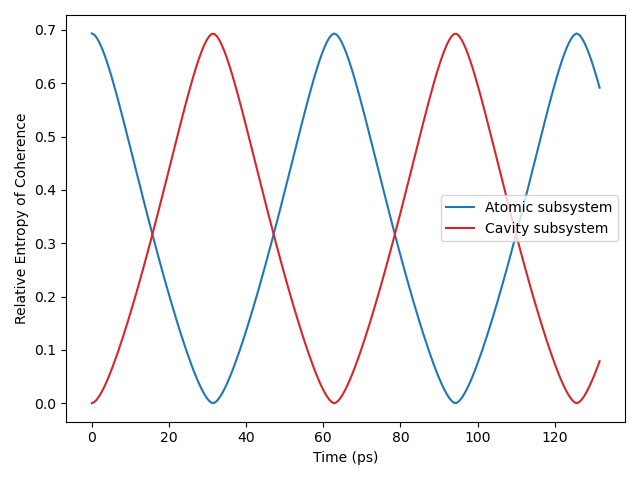
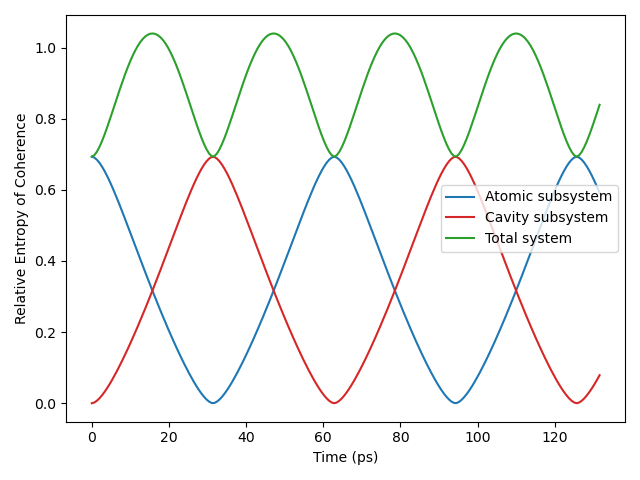
Adds total system coherence for closed simulations of the JCM.

diff --git a/Research Project/Code/JCM_Closed_eg.py b/Research Project/Code/JCM_Closed_eg.py
@@ -45,6 +45,7 @@ results_expt = sim.expect(results)
 vne = sim.vne(results)
 coh_tls = sim.rel_coherence(results, subsys="TLS")
 coh_qho = sim.rel_coherence(results, subsys="QHO")
+coh_tot = sim.rel_coherence(results)
 
 
 ############################### PLOTS #####################################
@@ -79,6 +80,7 @@ sim.plot(
     [
         {"y_data": coh_tls, "label": "Atomic subsystem", "colour": "tab:blue"},
         {"y_data": coh_qho, "label": "Cavity subsystem", "colour": "tab:red"},
+        {"y_data": coh_tot, "label": "Total system", "colour": "tab:green"},
     ],
     y_label="Relative Entropy of Coherence",
     savepath="JCM",
